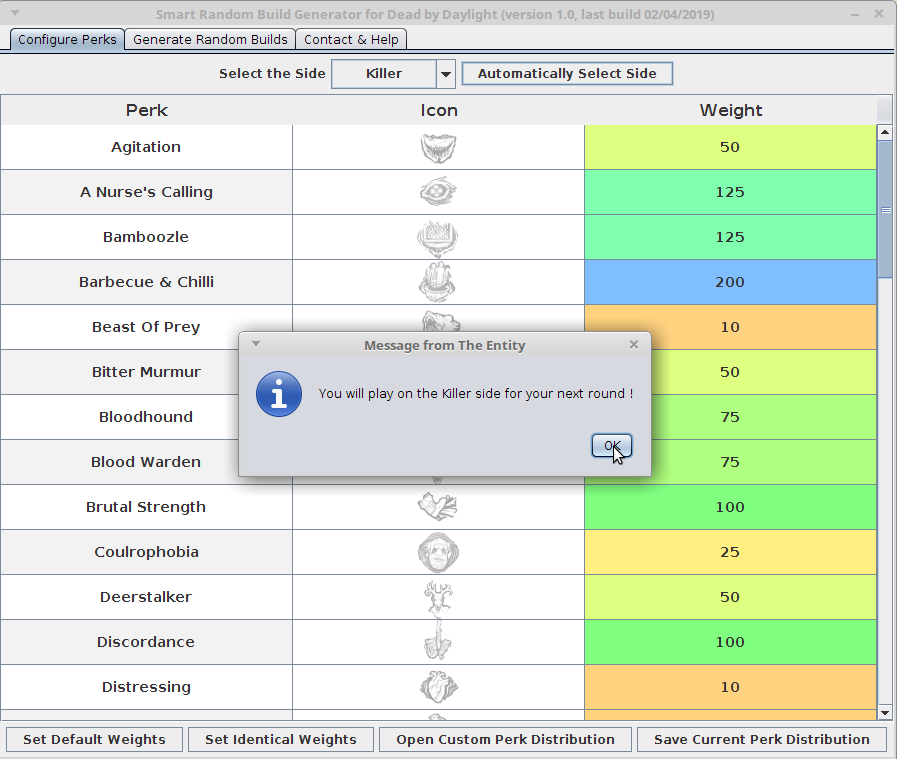
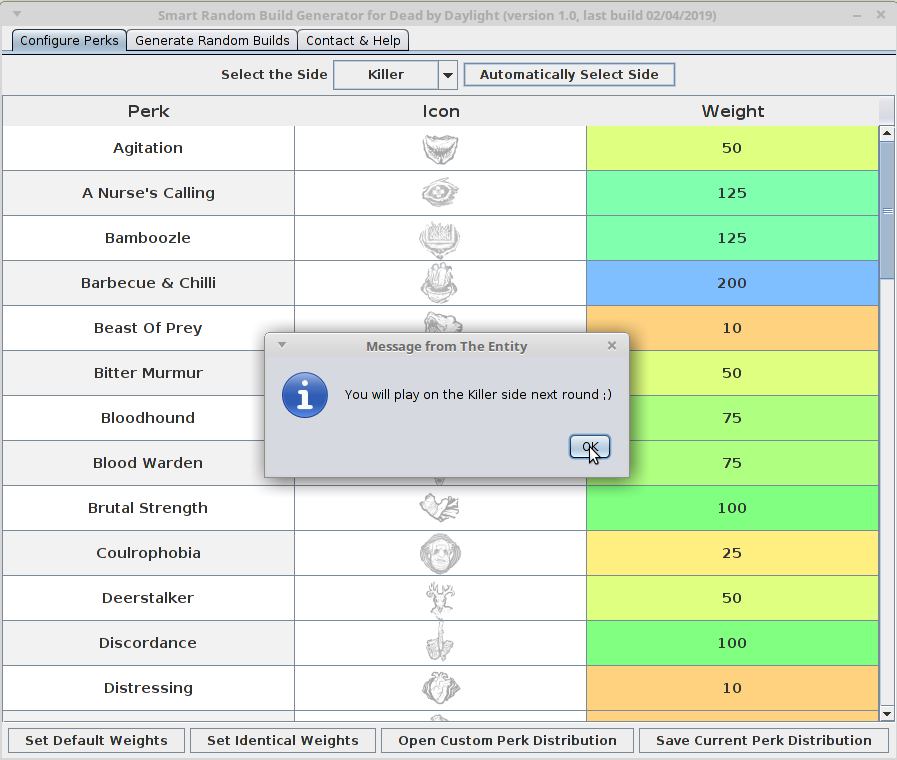
Commit

diff --git a/dbd/SmartRandBuildGenTabPerks.java b/dbd/SmartRandBuildGenTabPerks.java
@@ -122,7 +122,7 @@ public class SmartRandBuildGenTabPerks extends JPanel {
                 } else {
                     cb_side.setSelectedIndex(1);
                 }
-                getAlert("You will play on the " + srbg.getSide() + " side for your next round !", "Message from The Entity", JOptionPane.INFORMATION_MESSAGE);
+                getAlert("You will play on the " + srbg.getSide() + " side next round ;)", "Message from The Entity", JOptionPane.INFORMATION_MESSAGE);
             }
         });
 
